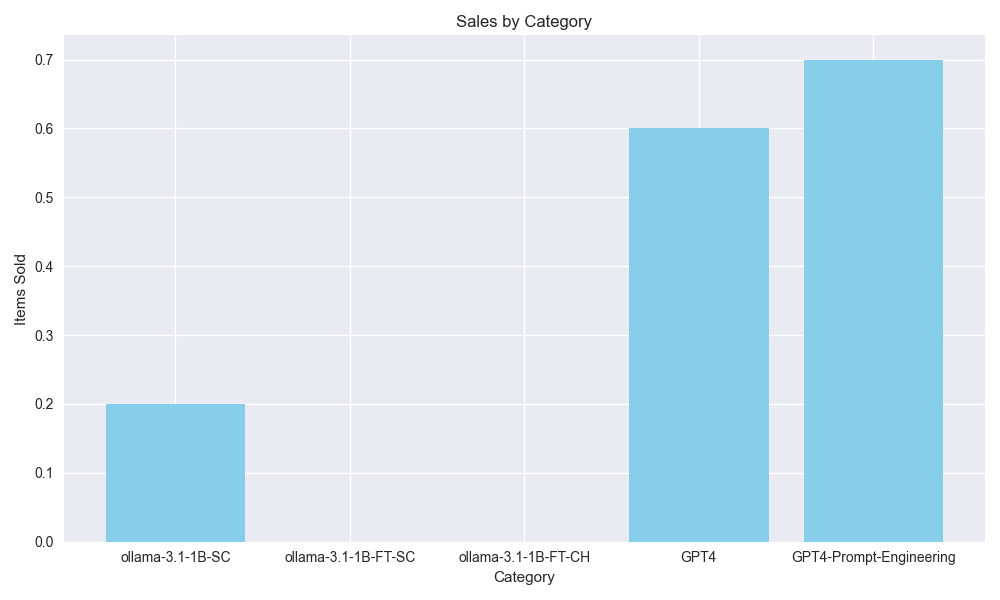
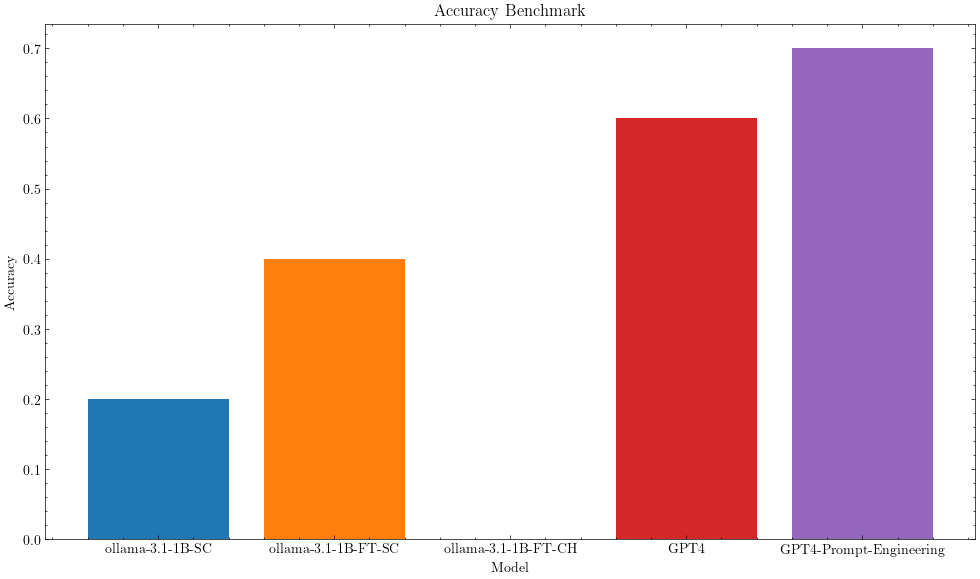
Added fine-tunning training and benchmark

diff --git a/src/benchmark.py b/src/benchmark.py
@@ -3,9 +3,15 @@ from transformers import AutoTokenizer, AutoModelForCausalLM
 from dotenv import load_dotenv
 import os
 import matplotlib.pyplot as plt
+from peft import PeftModel
+import scienceplots
+import matplotlib as mpl
 
 load_dotenv()
 model_path = os.getenv("MODEL_PATH")
+ADAPTER_DIRECT_CLASS_PATH = "./lora_adapter_direct_class"
+mpl.rcParams['text.usetex'] = False
+plt.rc('text', usetex=False)
 
 # Load benchmark data
 eval_data = []
@@ -48,7 +54,7 @@ Answer with only single digit 1 or 0 when:
                 pad_token_id=tokenizer.eos_token_id
             )
         response = tokenizer.decode(outputs[0], skip_special_tokens=True)
-        print(response)
+        #print(response)
         if "1" in response[-1]:
             return 1
         elif "0" in response[-1]:
@@ -70,7 +76,62 @@ Answer with only single digit 1 or 0 when:
     print(f"Model Accuracy: {accuracy:.2%} ({correct}/{total})")
     return accuracy
 
-default_self = run_benchmark_default_self_classification()
+def run_benchmark_finetuned_self_classification():
+    print("Running fine-tunned self classification benchmark")
+    # Run inference
+    base_model = AutoModelForCausalLM.from_pretrained(model_path)
+    tokenizer = AutoTokenizer.from_pretrained(model_path)
+    model = PeftModel.from_pretrained(base_model, ADAPTER_DIRECT_CLASS_PATH)
+
+    model.eval()
+    model.config.is_decoder = True
+    model.config.is_encoder_decoder = False
+    if tokenizer.pad_token is None:
+        tokenizer.pad_token = tokenizer.eos_token
+    model.config.pad_token_id = tokenizer.eos_token_id
+    print(f"Model type: {model.config.model_type}")
+    print(f"Is Decoder: {model.config.is_decoder}")
+
+    def classify_prompt(prompt):
+        prompt += """Analyze following pair of request/response from cybersecurity perspective.
+Evaluate HTTP response headers for missing or misconfgired any security headers.
+
+Answer with only single digit 1 or 0 when:
+1 - HTTP response contains misconfigured headers and requires attention.
+0 - HTTP response is properly configured.\n\n### Response:"""
+        inputs = tokenizer(prompt, return_tensors="pt").to("cpu")
+        with torch.no_grad():
+            outputs = model.generate(
+                **inputs,
+                max_new_tokens=2,
+                eos_token_id=tokenizer.eos_token_id,
+                pad_token_id=tokenizer.eos_token_id
+            )
+        response = tokenizer.decode(outputs[0], skip_special_tokens=True)
+        #print(response)
+        if "1" in response[-1]:
+            return 1
+        elif "0" in response[-1]:
+            return 0
+        else:
+            return None
+
+    correct = 0
+    total = 0
+
+    for item in eval_data:
+        pred = classify_prompt(item["prompt"])
+        total += 1
+        if pred is not None:
+            if pred == item["true_class"]:
+                correct += 1
+
+    accuracy = correct / total if total > 0 else 0
+    print(f"Model Accuracy: {accuracy:.2%} ({correct}/{total})")
+    return accuracy
+
+#default_self = run_benchmark_default_self_classification()
+#finetuned_self = run_benchmark_finetuned_self_classification()
 
 model = 'ollama-3.1-1B'
 categories = [model+"-SC",model+"-FT-SC",model+"-FT-CH","GPT4","GPT4-Prompt-Engineering"]
@@ -84,18 +145,18 @@ with open("datasets/reasoning.jsonl", "r", encoding="utf-8") as f:
         if item['classification'] == item['gpt5_classification_prompt_engineering']:
             gpt4pe += 1
         total += 1
-sales = [default_self, 0, 0, gpt4/total, gpt4pe/total]
+results = [default_self, finetuned_self, 0, gpt4/total, gpt4pe/total]
 
 # Plotting
 plt.style.use('science')
 plt.figure(figsize=(10, 6))
 colors = ['#1f77b4', '#ff7f0e', '#2ca02c', '#d62728', '#9467bd'] 
-plt.bar(categories, sales, color=colors)
+plt.bar(categories, results, color=colors)
 plt.xlabel('Model')
 plt.ylabel('Accuracy')
 plt.title('Accuracy Benchmark')
 plt.tight_layout()
-
+    
 # Save the plot
 output_path = 'imgs/'+model+'-benchmark.png'
 plt.savefig(output_path)

diff --git a/src/trainer.py b/src/trainer.py
@@ -1,19 +1,18 @@
 from transformers import AutoTokenizer, TrainingArguments, Trainer, AutoModelForCausalLM
 from dotenv import load_dotenv
-import os, torch
+import os, torch, logging, datasets, json
 from peft import LoraConfig, get_peft_model
 from datasets import load_dataset
 from JanusLModel import JanusSequenceClassification
-import logging
 from torch.utils.data import DataLoader
-from transformers import get_linear_schedule_with_warmup
 from torch.optim import AdamW 
+from transformers import get_linear_schedule_with_warmup
 from transformers import DataCollatorForLanguageModeling
 import matplotlib.pyplot as plt
 import numpy as np
+import scienceplots
 
 # Disable cachining
-import datasets
 datasets.disable_caching()
 os.environ["OMP_NUM_THREADS"] = "1"
 os.environ["TOKENIZERS_PARALLELISM"] = "false"
@@ -23,28 +22,42 @@ model_path = os.getenv("MODEL_PATH")
 logging.basicConfig(level=logging.INFO)
 logger = logging.getLogger(__name__)
 
-def StartReasoningTraining():
-    ADAPTER_PATH = "./lora_adapter_direct_class"
+def AnalyzeTrainingData():
+    tokenizer = AutoTokenizer.from_pretrained(model_path)
+    token_lengths = []
+    with open("datasets/reasoning.jsonl", "r", encoding="utf-8") as f:
+        file_data = "".join(f.readlines())
+        items = json.loads(file_data)
+        for item in items:
+            full_text = item["prompt"] + item["reasoning"]
+            tokenized = tokenizer(full_text, truncation=False)
+            token_lengths.append(len(tokenized["input_ids"]))
+    plt.style.use('science')
+    plt.figure(figsize=(10, 6))
+    plt.hist(token_lengths, bins=10, color='skyblue', edgecolor='black')
+    plt.title("Token Count Distribution in Training Data")
+    plt.xlabel("Number of Tokens")
+    plt.ylabel("Frequency")
+    plt.grid(True)
+    plt.savefig("imgs/training-data-tokens-distribution.png")
 
-    import torch
-    from torch.optim import AdamW
+def StartTraining():
+    ADAPTER_PATH = "./lora_adapter_direct_class"
     torch.set_num_threads(1)
     os.environ["OMP_NUM_THREADS"] = "1"
     os.environ["TOKENIZERS_PARALLELISM"] = "false"
-
     tokenizer = AutoTokenizer.from_pretrained(model_path)
     dataset = load_dataset("json", data_files="datasets/reasoning.jsonl")
     tokenizer.pad_token = tokenizer.eos_token
 
     def tokenize_fn(sample):
         prompt = sample["prompt"]
-        reasoning = sample["reasoning"]
-        full_text = prompt + reasoning
+        full_text = prompt + sample["reasoning"] + "\n\n### Response:" + str(sample["classification"])
         tokenized = tokenizer(
             full_text,
             truncation=True,
             padding="max_length",
-            max_length=512,
+            max_length=2048,
         )
         prompt_ids = tokenizer(prompt, truncation=True, max_length=512).input_ids
         prompt_len = len(prompt_ids)
@@ -55,8 +68,6 @@ def StartReasoningTraining():
             "attention_mask": tokenized["attention_mask"],
             "labels": labels,
         }
-
-
     logger.info("Tokenizing dataset...")
     tokenized = dataset.map(
         tokenize_fn, batched=False, remove_columns=dataset["train"].column_names, num_proc=None)
@@ -141,7 +152,8 @@ def StartReasoningTraining():
     # Fir the trend line
     coeffs = np.polyfit(steps, losses, deg=1)
     trend_line = np.poly1d(coeffs)
-    
+
+    plt.style.use('science')
     plt.figure(figsize=(7, 4))
     plt.plot(steps, losses, marker="o")
     plt.plot(steps, trend_line(steps), color="red", linestyle="--", label="Trend Line")
@@ -152,4 +164,5 @@ def StartReasoningTraining():
     #plt.savefig("imgs/fine-tuning-training-loss.png")
     plt.show()
 
-StartReasoningTraining()
+AnalyzeTrainingData()
+StartTraining()

diff --git a/README.md b/README.md
@@ -1,17 +1,17 @@
 # JanusLM
-Reasoning Classification Dual-Head Transformer with LoRA-Based Fine-Tuning for Web Security assesments.
+Reasoning Classification Dual-Head Transformer with LoRA-Based Fine-Tuning for a Web Security evaluations.
 
 ## Description
 
-This project proposes and evalutes a Dual-Head Large Language Model (LLM) Architecture with Parameter-Efficient Fine-Tuning (LoRA - Low-Rank Adaptation) designed for joint generative reasoning and cyber-security classification tasks.
+This project proposes and evalutes a Dual-Head Large Language Model (LLM) Architecture with Parameter-Efficient Fine-Tuning (LoRA - Low-Rank Adaptation) designed for joint generative reasoning and cyber-security related classification tasks.
 
-By using LoRA (Low-Rank Adaptation), the model can efficiently adapt to perform security analysis tasks without changing the original base weights, keeping the reasoning power of the pretrained LLM minimally impacted while adding security domain specific intelligence.
+By using multiple tailored LoRA (Low-Rank Adaptation) adapters, the model can efficiently adapt to perform security analysis tasks without changing the original base weights, keeping the reasoning power of the pretrained LLM minimally impacted while adding security domain specific intelligence.
 
 Dual-head design provides a multi-purpose inference, where the pre-trained and fine-tuned generative head creates detailed analysis and the manually trained classification head delivers prediction.
 
 ## Goal
 
-Locally served customized LLM that would be capable of analysing HTTP request / response pair and clasify it from the cyber-security perspective.
+Primary goal is exploration in generation of syntetic high-quality training data and evaluation of different approaches to training, fine-tuning, base model selection and classification.
 
 ## Architecture
 
@@ -47,6 +47,10 @@ Data has been prepared in following format:
 ```
 
 *Note: Section to be added on syntetic data generation using larger models and multiple agents*
+
+Current token distribution in training data:
+
+![Token-Data-Distribution](imgs/training-data-tokens-distribution.png)
 
 ### 1. Phase:
 LoRA fine-tuning for improved analysis reasoning on request / response pair. This was performed via pre-defined high-quality `x` examples of what kind of analysis/reasoning should be performed and what should be considered during evaluation.
